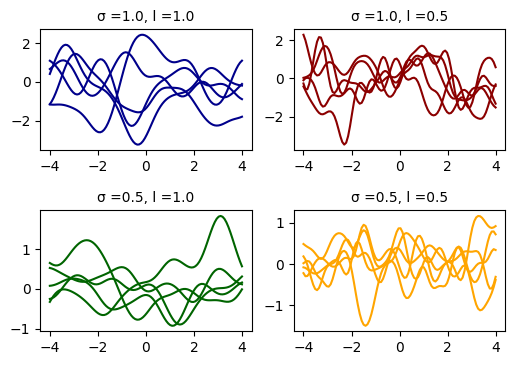
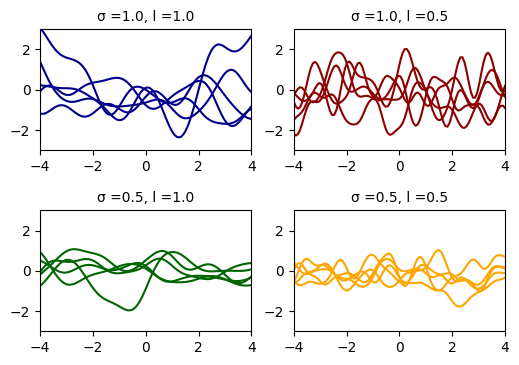
GP_CNN

diff --git a/Results/results_plot.py b/Results/results_plot.py
@@ -1,8 +1,11 @@
 # %%
 import numpy as np
+import matplotlib
 import matplotlib.pyplot as plt
 import pandas as pd
 
+# %%
+matplotlib.rcParams.update({'font.size': 13})
 # %%
 plaingploss = pd.read_csv('/Users/susuhu/Local_Docs/cms-project-hu/Results/plainGPloss.csv', header=0,sep=',')
 print(plaingploss.info())
@@ -14,32 +17,32 @@ print(adam_loss.tail())
 x = np.linspace(0,100,101)
 
 # %%
-# plt.figure(figsize=(8,5))
-# plt.plot(x, plaingploss['loss']/10000,label='L-BFGS-B')
-# plt.plot(x[1:],adam_loss/10000,label='Adam (learning rate=0.1)')
-# plt.title("Plain GP loss")
-# plt.xlabel('iterations')
-# plt.ylabel('loss (10^4)')
-# plt.legend()
-# plt.grid("on")
-# plt.savefig('PlainGPloss2opt.png')
-# plt.show()
+plt.figure(figsize=(8,5))
+plt.plot(x, plaingploss['loss']/10000,label='L-BFGS-B')
+plt.plot(x[1:],adam_loss/10000,label='Adam (learning rate=0.1)')
+plt.title("Plain GP loss")
+plt.xlabel('Iterations',fontsize=14)
+plt.ylabel('Loss (10^4)',fontsize=14)
+plt.legend()
+plt.grid("on")
+plt.savefig('PlainGPloss2opt.png')
+plt.show()
 
 # %%
 conv_adam_loss = pd.read_csv('/Users/susuhu/Local_Docs/cms-project-hu/Results/conv_adam_results01.txt',header=None, names=['loss'])
 print(conv_adam_loss.tail())
+
+conv_lbfgs_loss = pd.read_csv('/Users/susuhu/Local_Docs/cms-project-hu/Results/conv_lbfgs_loss.csv',header=0)
+print(conv_lbfgs_loss.tail())
 # %%
 plt.figure(figsize=(8,5))
 plt.plot(x, conv_lbfgs_loss['loss']/10000,label='L-BFGS-B')
 plt.plot(x[1:],conv_adam_loss/10000,label='Adam (learning rate=0.1)')
 plt.title("Convolutional GP loss")
-plt.xlabel('iterations')
-plt.ylabel('loss (10^4)')
+plt.xlabel('Iterations',fontsize=14)
+plt.ylabel('Loss (10^4)',fontsize=14)
 plt.legend()
 plt.grid("on")
 plt.savefig('ConvGPloss.png')
 plt.show()
-# %%
-conv_lbfgs_loss = pd.read_csv('/Users/susuhu/Local_Docs/cms-project-hu/Results/conv_lbfgs_loss.csv',header=0)
-print(conv_lbfgs_loss.tail())
 # %%

diff --git a/ConvGP/draw_kernel.py b/ConvGP/draw_kernel.py
@@ -45,25 +45,34 @@ ys4 = np.random.multivariate_normal(
 # %%
 # Plot the sampled functions
 plt.figure(figsize=(6, 4), dpi=100)
+
 # plt.suptitle('Squared exponentiated kernel with differnet parameters',fontsize=12)
 plt.subplots_adjust(hspace=0.5)
 plt.subplot(2,2,1)
+plt.xlim([-4, 4])
+plt.ylim([-3,3])
 for i in range(number_of_functions):
     plt.plot(X, ys1[i], linestyle='-',color ="darkblue")
     plt.title("σ =1.0, l =1.0",fontsize=10)
-# plt.xlim([-4, 4])
+
 
 plt.subplot(2,2,2)
+plt.xlim([-4, 4])
+plt.ylim([-3,3])
 for i in range(number_of_functions):
     plt.plot(X, ys2[i], linestyle='-',color ="darkred")
     plt.title("σ =1.0, l =0.5",fontsize=10)
 
 plt.subplot(2,2,3)
+plt.xlim([-4, 4])
+plt.ylim([-3,3])
 for i in range(number_of_functions):
     plt.plot(X, ys3[i], linestyle='-',color='darkgreen')
     plt.title("σ =0.5, l =1.0",fontsize=10)
 
 plt.subplot(2,2,4)
+plt.xlim([-4, 4])
+plt.ylim([-3,3])
 for i in range(number_of_functions):
     plt.plot(X, ys4[i], linestyle='-',color='orange')
     plt.title("σ =0.5, l =0.5",fontsize=10)
